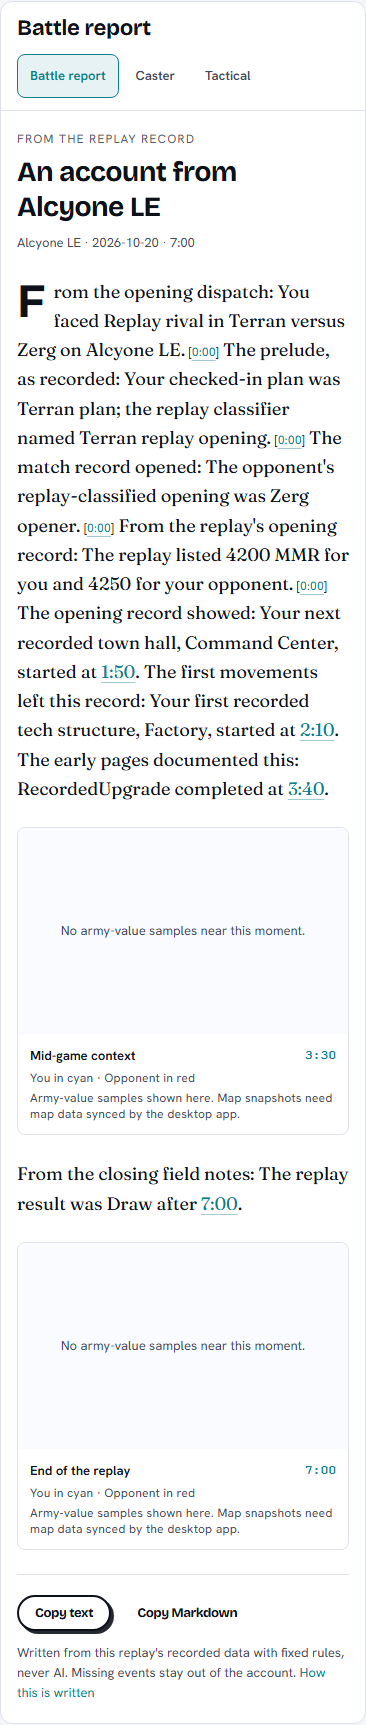
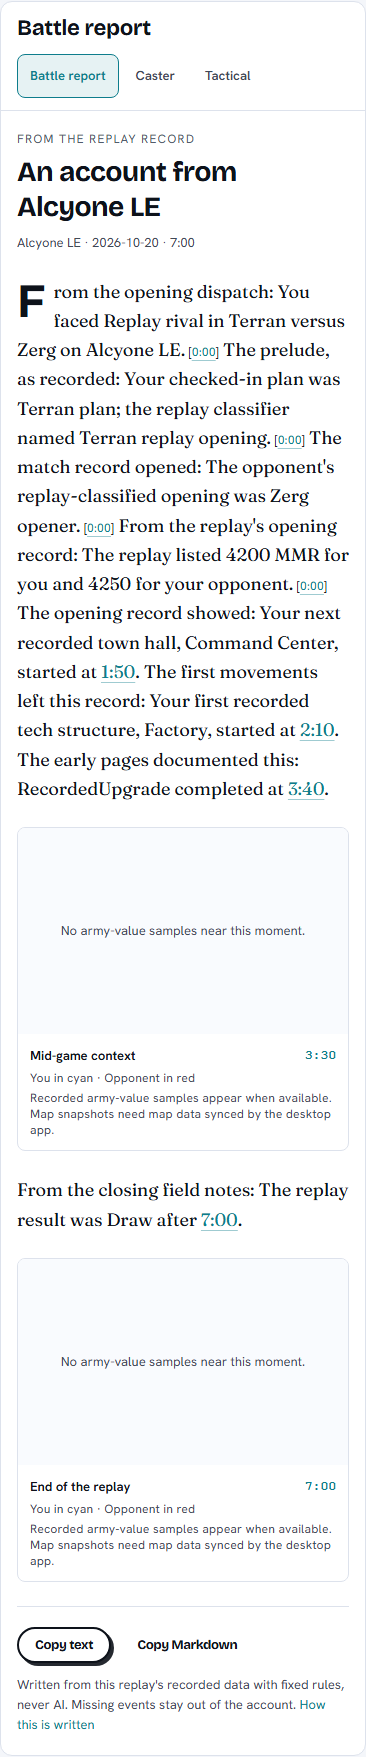
fix(reports): describe unavailable army samples accurately

diff --git a/apps/web/components/battleReport/BattleSnapshot.tsx b/apps/web/components/battleReport/BattleSnapshot.tsx
@@ -19,6 +19,6 @@ export function BattleSnapshot({ moment, playback, breakdown, duration, segmente
       {frame ? <MapStill playback={frame} moment={moment} myRace={myRace} oppRace={oppRace} /> : <ArmySnapshot time={moment.time} duration={duration} mine={breakdown?.stats_events} opponent={breakdown?.opp_stats_events} />}
       <span className="flex flex-wrap items-start justify-between gap-2 px-3 pt-3 text-caption font-semibold text-text"><span>{moment.caption}</span><span className="font-mono tabular-nums text-accent">{clock}</span></span>
     </button>
-    <figcaption className="space-y-1 px-3 pb-3 pt-1 text-micro text-text-muted">{frame ? <><p><span style={{ color: `rgb(var(${mine.token}))` }}>You · {mine.name} · solid</span>{" / "}<span style={{ color: `rgb(var(${theirs.token}))` }}>Opponent · {theirs.name} · outline</span></p><p>Units are dots; structures are squares.</p>{frame.fidelity?.positions !== "engine" ? <p>Replay positions may be approximate.</p> : null}</> : <><p>You in cyan · Opponent in red</p><p>{playback ? "Army-value samples shown here. The map recording does not cover this time." : segmented ? "Army-value samples shown here. Seek the replay to view this moment on the map." : "Army-value samples shown here. Map snapshots need map data synced by the desktop app."}</p></>}</figcaption>
+    <figcaption className="space-y-1 px-3 pb-3 pt-1 text-micro text-text-muted">{frame ? <><p><span style={{ color: `rgb(var(${mine.token}))` }}>You · {mine.name} · solid</span>{" / "}<span style={{ color: `rgb(var(${theirs.token}))` }}>Opponent · {theirs.name} · outline</span></p><p>Units are dots; structures are squares.</p>{frame.fidelity?.positions !== "engine" ? <p>Replay positions may be approximate.</p> : null}</> : <><p>You in cyan · Opponent in red</p><p>Recorded army-value samples appear when available. {playback ? "The map recording does not cover this time." : segmented ? "Seek the replay to view this moment on the map." : "Map snapshots need map data synced by the desktop app."}</p></>}</figcaption>
   </figure>;
 }

diff --git a/apps/web/components/battleReport/__tests__/BattleSnapshot.test.tsx b/apps/web/components/battleReport/__tests__/BattleSnapshot.test.tsx
@@ -39,6 +39,8 @@ describe("battle snapshots", () => {
     expect(view.container.querySelectorAll("path")).toHaveLength(0); expect(view.container.querySelectorAll("circle")).toHaveLength(2);
     view.rerender(<BattleSnapshot moment={{ id: "swing", time: 30, caption: "Largest sampled lead swing" }} duration={120} onSeek={seek} />);
     expect(screen.getByText("No army-value samples near this moment.")).toBeTruthy(); expect(screen.queryByRole("img")).toBeNull();
+    expect(screen.getByText("Recorded army-value samples appear when available. Map snapshots need map data synced by the desktop app.")).toBeTruthy();
+    expect(screen.queryByText(/samples shown here/)).toBeNull();
   });
 
   it("names both sides and races and distinguishes mirror-match dots by fill and outline", () => {

diff --git a/docs/handoff/battle-report-checkpoint.md b/docs/handoff/battle-report-checkpoint.md
@@ -27,4 +27,5 @@ Engine validation: 51 tests/36 snapshots, full web types and strict source lint.
 - Combined production build with required engine `604e9d4618a6414b` passes every unchanged route budget: landing 214.2/215 kB, Today 224.4/240, game 313.6/440, opponent 491.5/500, Guides 168.4/175 and Help 180.2/200.
 - `node tests/manual/battle-report.cjs` passes 56 browser checks with production CSS and actual Hanken/Bricolage/Fraunces fonts. The local fixture mounts real game/report/player and authenticated SWR/client API consumers with synthetic auth/API boundaries, blocks nonlocal traffic and rejects/asserts no API writes. Local checked-in Alcyone artwork is served through the existing image URL. One manifest/legacy request pair serves both player and report. Tone/copy/clock/retained player, actual race-color pixels, mirror solid/outline identity and theme redraw, segmented arrival narrative invariance, missing data, long names, one-paragraph ending, denied-clipboard selected fallback and no overflow/uncaught errors pass.
 - Nine screenshots were visually reviewed: `screenshots/battle-report-{320,390,768,1440}.png` and `screenshots/battle-report-{zerg-mirror-dark,missing-detail-light,segmented-dark,long-names-light,short-gg-light}-390.png`. Section captures set sticky fixture/page chrome to static only while taking the image, so it cannot overlay the report after a seek.
-- Still pending: final main integration, independent review, PR and green-CI merge.
+- Independent source/visual review cleared the integration after correcting the empty-chart caption to say recorded samples appear when available. The missing-sample consumer/browser assertions cover that wording. All 10 report consumers, full web types and strict touched lint pass after the copy correction; final remote production checks gate the exact final head.
+- PR #710 is open. Fresh main through `c3c6b4fb` (#705/#707) is integrated; only duplicate squash-history page additions and newer handoff notes needed resolution. All reviewed shipping changes from #705/#707 are preserved. Remote green checks and squash merge remain pending.
